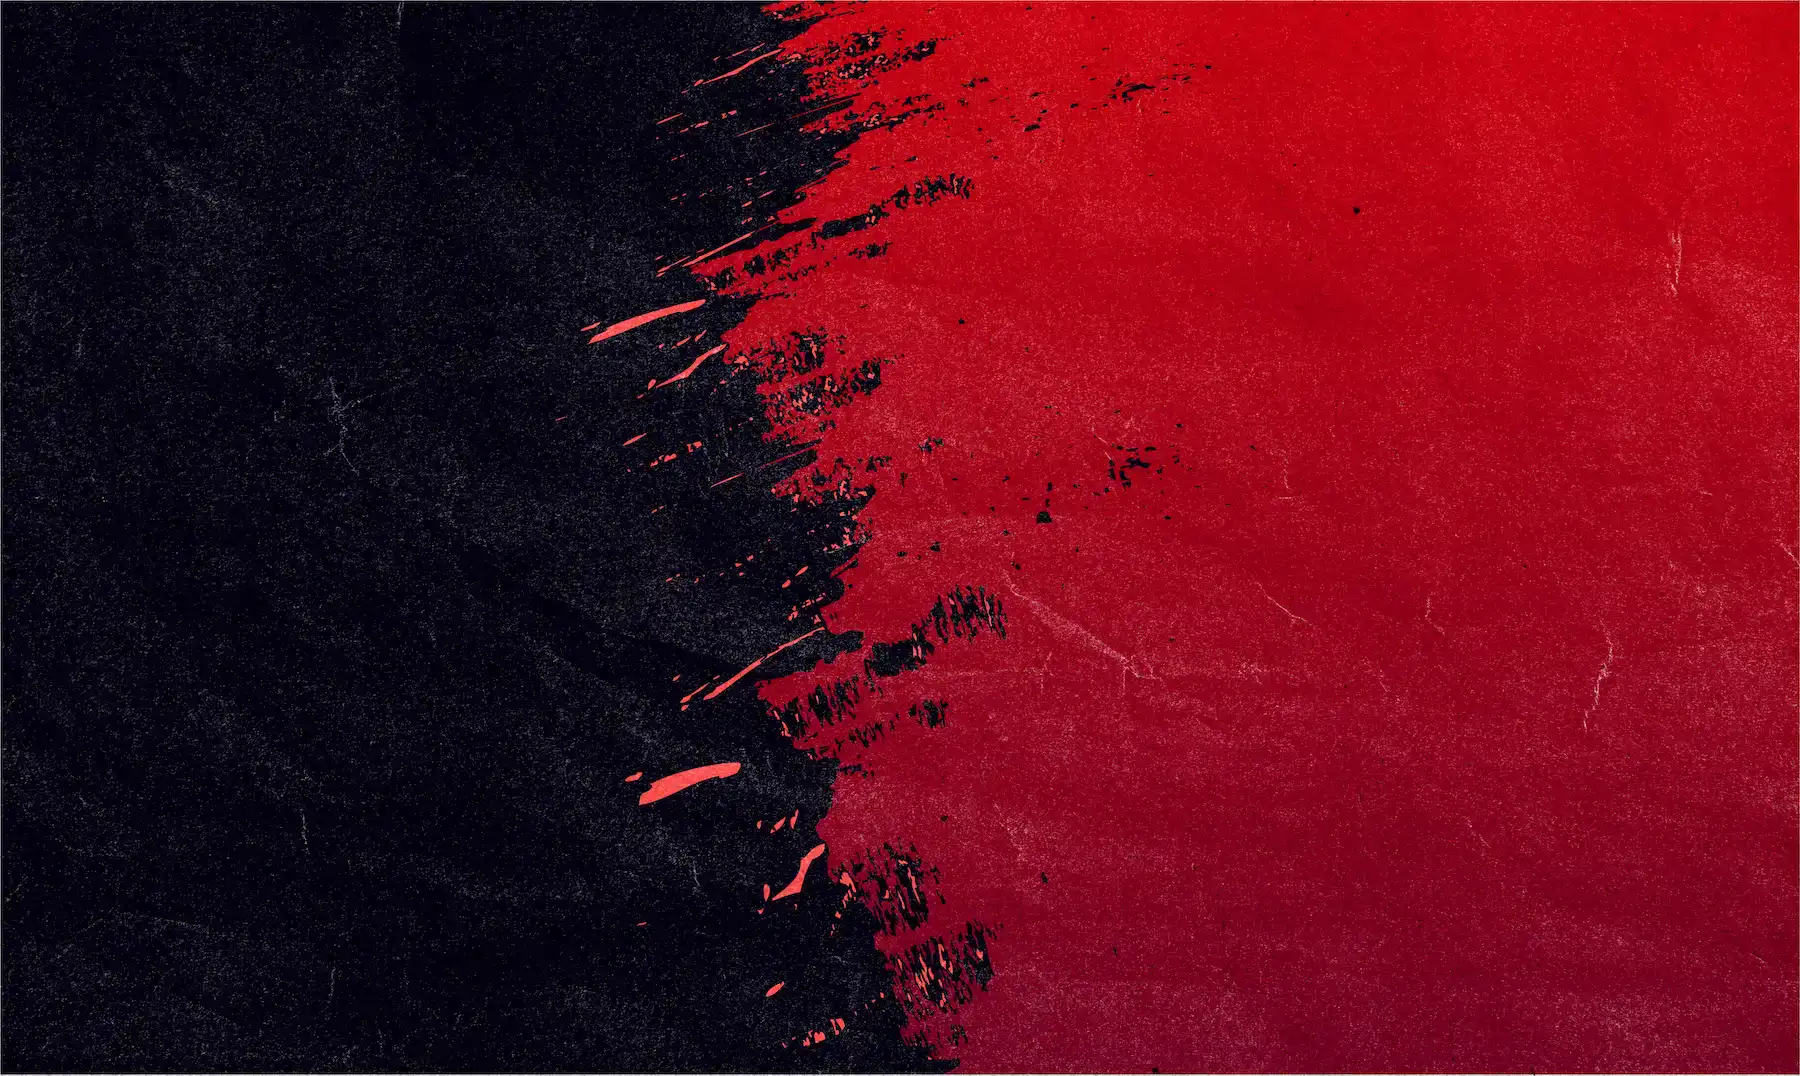
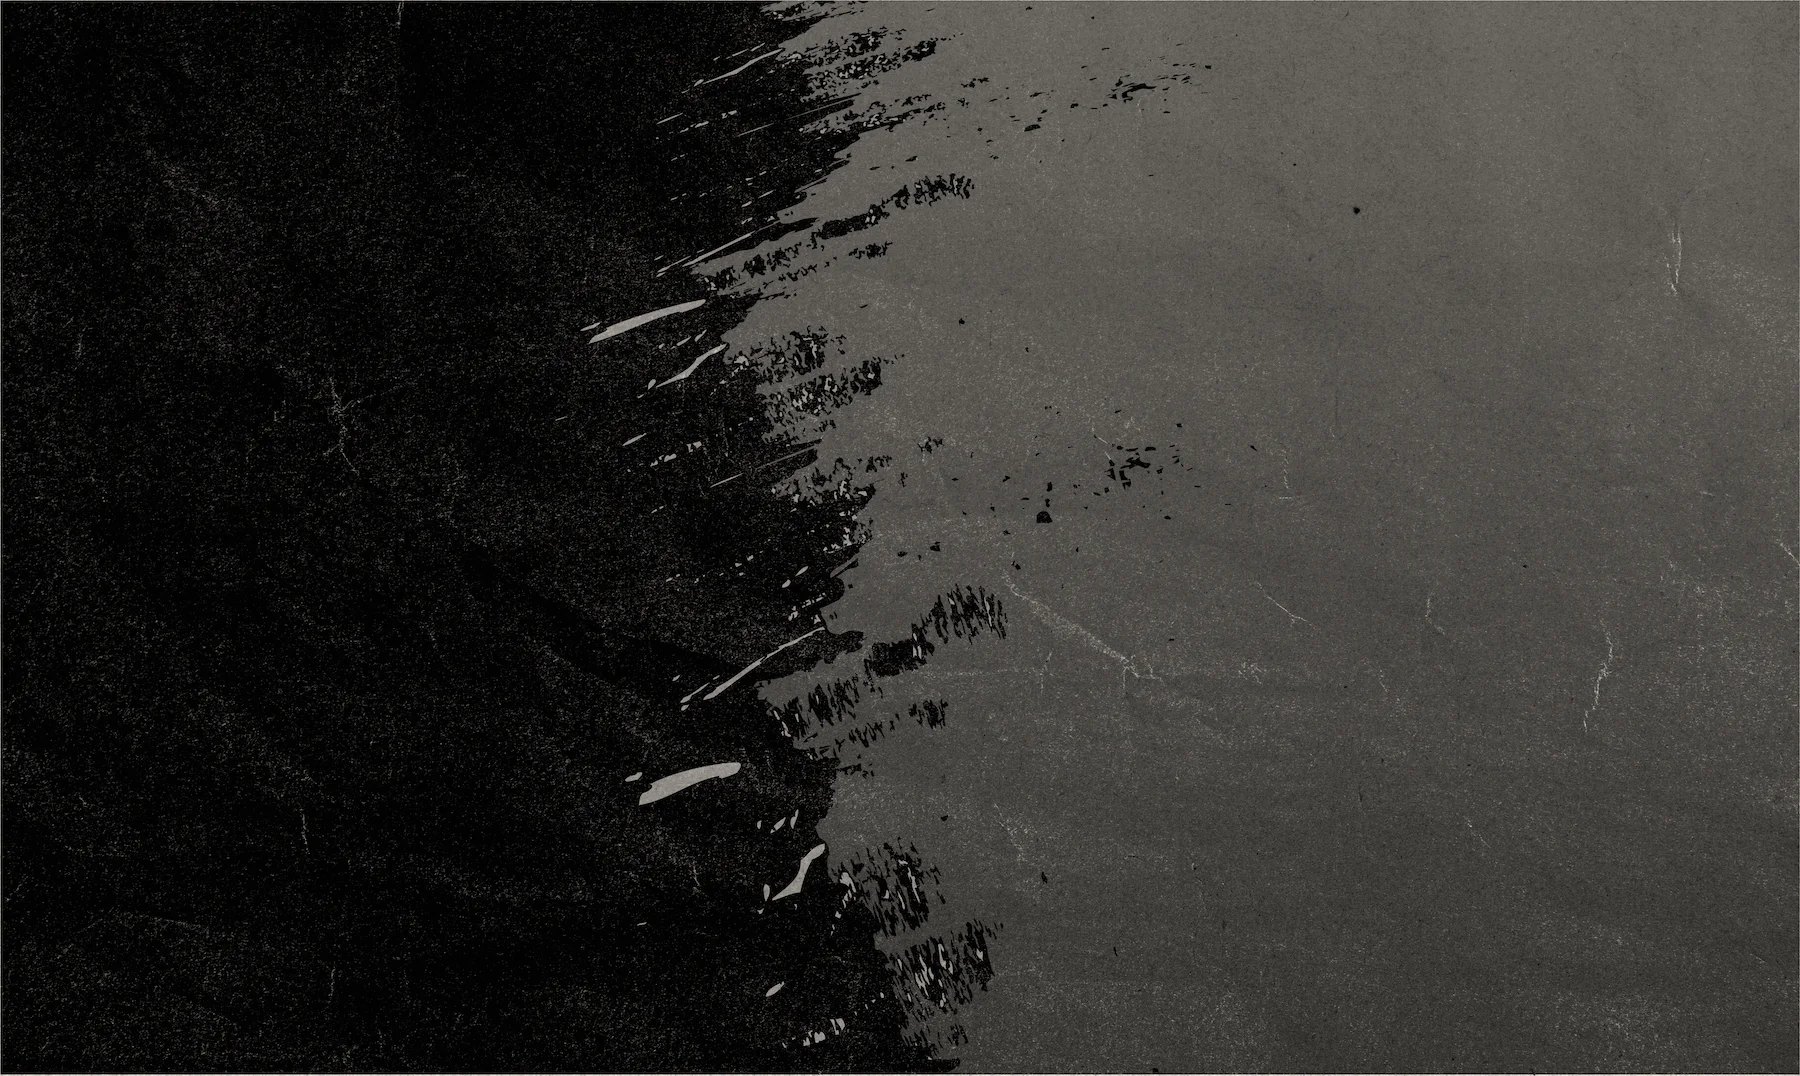
update grid system and header

diff --git a/_site/assets/css/main.css b/_site/assets/css/main.css
@@ -404,8 +404,6 @@ header {
   background-image: url("../img/header_bg.webp");
   background-size: cover;
   background-position: center;
-  -webkit-filter: saturate(0);
-          filter: saturate(0);
   min-height: 550px;
   padding-top: 50px;
   display: -ms-flexbox;
@@ -421,12 +419,6 @@ header h1 {
 @media (max-width: 768px) {
   header {
     min-height: 450px;
-  }
-}
-
-@media (max-width: 450px) {
-  header {
-    min-height: 350px;
   }
 }
 
@@ -974,21 +966,31 @@ button {
   font-weight: bold;
   padding: 15px 25px;
   border: 0;
+  display: inline-block;
   box-shadow: none;
   font-size: 17.6px;
   border-radius: 4px;
   margin-bottom: 20px;
+  text-align: center;
+  text-decoration: none;
   cursor: pointer;
 }
 
 .btn:not(.disabled):hover, .btn.hover {
   background: #25986c;
   transition: background-color 0.3s;
+  color: #ffffff;
 }
 
 .btn:disabled, .btn.disabled {
   opacity: 0.5;
   cursor: not-allowed;
+}
+
+@media (max-width: 450px) {
+  .btn {
+    display: block;
+  }
 }
 
 /*	FORM INPUTS

diff --git a/_sass/_buttons.scss b/_sass/_buttons.scss
@@ -14,17 +14,24 @@ button {
     font-weight: bold;
     padding: (($spacer / 4) * 3)  (($spacer / 4) * 5);
     border: 0;
+    display: inline-block;
     box-shadow: none;
     font-size: $base-font-size * 1.1;
     border-radius: $border-radius / 2;
     margin-bottom: $spacer;
+    text-align: center;
+    text-decoration: none;
     cursor: pointer;
     &:not(.disabled):hover, &.hover {
         background: $accent-hover;
         transition: background-color 0.3s;
+        color: $white;
     }
     &:disabled, &.disabled {
         opacity: 0.5;
         cursor: not-allowed;
+    }
+    @media (max-width: $breakpoint-xs) {
+        display: block;
     }
 }

diff --git a/_site/index.html b/_site/index.html
@@ -29,6 +29,7 @@
         </a>
         <h1>Jekyll Sharp StyleGuide</h1>
         <p class="text-white opacity-70">This is a customizable Jekyll based project that can be used as a starting point of building a custom static html website. Basically it"s a onepage styleguide including every component what a website UI should have.</p>
+        <a class="btn" href="https://github.com/eriktailor/jekyll-sharp-styleguide" target="_blank">Get started now</a>
     </div>
 </header>
 

diff --git a/_includes/header.html b/_includes/header.html
@@ -5,5 +5,6 @@
         </a>
         <h1>{{ site.title }}</h1>
         <p class="text-white opacity-70">This is a customizable Jekyll based project that can be used as a starting point of building a custom static html website. Basically it"s a onepage styleguide including every component what a website UI should have.</p>
+        <a class="btn" href="https://github.com/eriktailor/jekyll-sharp-styleguide" target="_blank">Get started now</a>
     </div>
 </header>

diff --git a/_sass/_header.scss b/_sass/_header.scss
@@ -7,7 +7,6 @@ header {
     background-image: url('../img/header_bg.webp');
     background-size: cover;
     background-position: center;
-    filter: saturate(0);
     min-height: 550px;
     padding-top: 50px;
     display: flex;
@@ -17,9 +16,6 @@ header {
     }
     @media (max-width: $breakpoint-sm) {
         min-height: 450px;
-    }
-    @media (max-width: $breakpoint-xs) {
-        min-height: 350px;
     }
 }
 

diff --git a/README.md b/README.md
@@ -13,11 +13,11 @@ A fresh, lightweight custom built styleguide template to use with Jekyll sites. 
 - lightweight, rapid fast loading speed
 - completely responsive with fluid layout
 - helper classes for spacings and colors
-- responsive typography setup
-- css grid and flexbox layouts
+- custom 6 columns responsoive grid system
 - customized ordered & unordered lists
 - including a functional lightbox
 - autoprefix css output with vendor prefixes
+- responsive fluid typography setup
 - inputs styling (basic, textarea, select)
 - code blocks with syntax highlighting
 - copy any code block with one click
@@ -73,3 +73,4 @@ JEKYLL_ENV=production bundle exec jekyll serve
 - document helper classes
 - check responsive features
 - fix h6 font size on mobile views
+- add copyright footer
